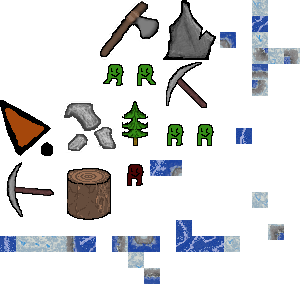
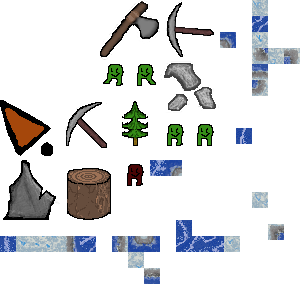
YEAH WOOH

Changed region(s): [[0.54, 0.0, 0.72, 0.3944], [0.0, 0.5634, 0.18, 0.7887], [0.21, 0.338, 0.39, 0.5352]]

diff --git a/src/player.ts b/src/player.ts
@@ -23,11 +23,13 @@ function isItemType(obj: any): obj is ItemType {
 }
 
 class Player extends PIXI.AnimatedSprite {
+    msgTexts: PIXI.Text[];
     health: number = 100;
     name: string = "";
     visualChunkLocation: number[] = [0, 0];
     speed: number = 1;
     pixelWidth: number = 0;
+    msgTextStyle: PIXI.TextStyle;
     pixelHeight: number = 0;
     isMoving: boolean = false;
     hitboxSize: number = 12;
@@ -36,6 +38,9 @@ class Player extends PIXI.AnimatedSprite {
     hand: InventorySlot;
     handContainer: PIXI.Container;
     craftingMenu: CraftingMenu;
+    spawnX: number = 0;
+    spawnY: number = 0;
+    msgContainer: PIXI.Container;
 
     constructor(sprites: string[], width: number, height: number, itemsData: Object) {
         let textures: PIXI.Texture[] = []
@@ -44,6 +49,22 @@ class Player extends PIXI.AnimatedSprite {
         })
         super(textures);
         this.animationSpeed = 0.15;
+        this.msgContainer = new PIXI.Container();
+        //@ts-ignore
+        this.msgTextStyle = {
+            fill: 0xFFFFFF,
+            fontFamily: "courier new",
+            fontSize: 40,
+        }
+        this.msgTexts = [];
+        this.showMessage("Welcome Back!")
+        this.showMessage("Welcome Back!")
+        this.showMessage("Welcome Back!")
+        this.showMessage("Welcome Back!")
+        this.showMessage("Welcome Back!")
+        this.showMessage("Welcome Back!")
+        this.showMessage("Welcome Back!")
+
 
         let items: ItemType[] = [];
         // @ts-ignore
@@ -58,9 +79,6 @@ class Player extends PIXI.AnimatedSprite {
         this.hand = new InventorySlot();
         this.handContainer = new PIXI.Container();
         this.inventory = new Inventory(3, 8, items, this.hand);
-        this.inventory.setSlot(0, 0, items[0], 50);
-        this.inventory.setSlot(0, 1, items[1], 1);
-        this.inventory.setSlot(0, 2, items[2], 50);
         this.inventory.onHandPickup = () => this.renderHand(this);
         this.inventory.onInventoryUpdate = () => {
             this.craftingMenu.inventoryCountMap = this.inventory.getItemCount();
@@ -78,13 +96,61 @@ class Player extends PIXI.AnimatedSprite {
             }
         })
         this.hb = new HitBox(width/3, height/8, width, height)
+        this.inventory.addItems(items[0], 50);
+        this.inventory.addItems(items[0], 50);
+        this.inventory.addItems(items[0], 50);
+        this.inventory.addItems(items[0], 50);
+        this.inventory.addItems(items[0], 50);
+        this.inventory.addItems(items[0], 50);
+        this.inventory.addItems(items[0], 50);
+        this.inventory.addItems(items[0], 50);
+        this.inventory.addItems(items[0], 50);
+        this.inventory.addItems(items[0], 50);
+        this.inventory.addItems(items[0], 50);
+        this.inventory.addItems(items[0], 50);
+        this.inventory.addItems(items[0], 50);
+        this.inventory.addItems(items[0], 50);
+        this.inventory.addItems(items[0], 50);
+        this.inventory.addItems(items[0], 50);
+        this.inventory.addItems(items[0], 50);
+        this.inventory.addItems(items[0], 50);
+        this.inventory.addItems(items[0], 50);
+        this.inventory.addItems(items[0], 50);
+        this.inventory.addItems(items[0], 50);
+        this.inventory.addItems(items[0], 50);
+        this.inventory.addItems(items[0], 50);
+        this.inventory.addItems(items[0], 49);
     }
+
 
     handleCraftRequest(req: CraftRequest, p: Player) {
         for (let key of req.ingredients.keys()) {
             p.inventory.removeItems(key, req.ingredients.get(key)!);
         }
         p.inventory.addItems(req.result, 1);
+    }
+
+    showMessage(text: string) {
+        const t = new PIXI.Text({
+            text: text,
+            style: this.msgTextStyle
+        })
+        t.y = window.innerHeight/2-this.height-t.height;
+        t.x = ((this.width-t.width)/2 + window.innerWidth/2) - this.width/2;
+        this.msgContainer.addChild(t)
+        this.msgTexts.push(t);
+    }
+
+    updateMessagePosition() {
+        for (let i=0; i<this.msgTexts.length; i++) {
+            const t = this.msgTexts[i];
+            t.y -= 1
+            t.alpha -= 0.01
+            if (t.y <= -150) {
+                this.msgTexts.splice(i, 1)
+                t.destroy()
+            }
+        }
     }
 
     renderHand(p: Player) {
@@ -221,6 +287,30 @@ class Inventory extends PIXI.Container {
         this.items = items;
         this.grid.renderAll();
         this.playerHand = playerHand;
+    }
+
+    canFitItems(item: ItemType, count: number): boolean {
+        let addedSoFar = 0;
+        for (let row = 0; row < this.grid.rows; row++) {
+            for (let col = 0; col < this.grid.cols; col++) {
+                const slot = this.grid.slots[row][col];
+                if (slot.item?.name == item.name) {
+                    if (slot.count !== slot.item!.stack) {
+                        if (slot.count + (count-addedSoFar)  <= slot.item!.stack) {
+                            return true
+                        }
+                        addedSoFar += count - slot.count;
+                    }
+                }
+                if (slot.count === 0) {
+                    if (count-addedSoFar  <= item.stack) {
+                        return true
+                    }
+                    addedSoFar += count - slot.count;
+                }
+            }
+        }
+        return false
     }
 
     addItems(item: ItemType, count: number) {

diff --git a/src/resources.ts b/src/resources.ts
@@ -24,9 +24,11 @@ class ResourcesManager extends PIXI.Container {
     clicking: boolean;
     timeOfLastMinecraft: number;
     miningSpeedMillis: number;
+    warningMessageHandler: Function;
 
-    constructor(resourceLayers: ResourceLayer[], opts: ResourceOption[], itemsData: Object, itemDestination: Inventory, app: PIXI.Application, miningSpeedMillis: number) {
+    constructor(resourceLayers: ResourceLayer[], opts: ResourceOption[], itemsData: Object, itemDestination: Inventory, app: PIXI.Application, miningSpeedMillis: number, warningMessageHandler: Function) {
         super();
+        this.warningMessageHandler = warningMessageHandler
         this.miningSpeedMillis = miningSpeedMillis;
         this.maps = [];
         this.timeOfLastMinecraft = Date.now();
@@ -78,6 +80,7 @@ class ResourcesManager extends PIXI.Container {
                 resource.miningSoundVariants,
                 resource.destroySound,
                 resource.destroySoundVariants,
+                this.warningMessageHandler,
             );
             this.maps.push(map);
             this.addChild(this.maps[i]);
@@ -128,9 +131,25 @@ class ResourceMap extends PIXI.Container {
     miningSound: string;
     destroySound: string;
     destroySoundVariants: number;
+    warningMessageHandler: Function
 
-    constructor(locations: ResourceMapLocation[], resourceName: string, resourceItem: ItemType, resourceDestination: Inventory, resourceSprite: string, app: PIXI.Application, mouseoverSprite: string, miningHitSprite: string, defaultCursorSprite: string, miningSound: string, miningSoundVariants: number, destroySound: string, destroySoundVariants: number) {
+    constructor(locations: ResourceMapLocation[],
+                resourceName: string,
+                resourceItem: ItemType,
+                resourceDestination: Inventory,
+                resourceSprite: string,
+                app: PIXI.Application,
+                mouseoverSprite: string,
+                miningHitSprite: string,
+                defaultCursorSprite: string,
+                miningSound: string,
+                miningSoundVariants: number,
+                destroySound: string,
+                destroySoundVariants: number,
+                warningMessageHandler: Function
+               ) {
         super();
+        this.warningMessageHandler = warningMessageHandler;
         this.miningSound = miningSound;
         this.destroySound = destroySound;
         this.destroySoundVariants = destroySoundVariants;
@@ -218,13 +237,18 @@ class ResourceMap extends PIXI.Container {
 
         this.locations[this.currentMiningIndex].hits -= 1;
         if (this.locations[this.currentMiningIndex].hits === 0) {
-            this.resourceDestination.addItems(this.resourceItem, this.locations[this.currentMiningIndex].resourceCount);
-            document.getElementsByTagName("body")[0].style.cursor = "url('assets/" + this.defaultCursorSprite + "'), auto";
-            this.mapMask[this.currentMiningIndex].destroy();
-            this.sprites[this.currentMiningIndex].destroy();
-            this.currentMiningIndex = null;
-            this.playDestroySound();
-            this.playMiningSound();
+            if (this.resourceDestination.canFitItems(this.resourceItem, this.locations[this.currentMiningIndex].resourceCount)) {
+                this.resourceDestination.addItems(this.resourceItem, this.locations[this.currentMiningIndex].resourceCount);
+                document.getElementsByTagName("body")[0].style.cursor = "url('assets/" + this.defaultCursorSprite + "'), auto";
+                this.mapMask[this.currentMiningIndex].destroy();
+                this.sprites[this.currentMiningIndex].destroy();
+                this.currentMiningIndex = null;
+                this.playDestroySound();
+                this.playMiningSound();
+            } else {
+                this.warningMessageHandler("Inventory Full!")
+                this.locations[this.currentMiningIndex].hits = 1
+            }
         } else {
             this.playMiningSound();
         }

diff --git a/src/main.ts b/src/main.ts
@@ -28,9 +28,9 @@ kbd.addClickHandler("n", () => {
 const app = new PIXI.Application();
 await app.init({width: tile_unscaled_size*map_size, height: tile_unscaled_size*map_size, antialias: false, roundPixels: true, backgroundColor: "blue"});
 
-document.getElementsByTagName("body")[0].style.cursor = "url('assets/cursor.png'), auto";
 document.getElementsByTagName("body")[0].style.cursor = "url('assets/pickaxe_2.png'), auto";
 document.getElementsByTagName("body")[0].style.cursor = "url('assets/pickaxe_1.png'), auto";
+document.getElementsByTagName("body")[0].style.cursor = "url('assets/cursor.png'), auto";
 
 const stats = new StatsHandler(app.renderer);
 kbd.addClickHandler("p", () => {stats.toggle()});
@@ -74,14 +74,16 @@ tilemap.position.set(0, 0);
 world.addChild(tilemap);
 
 const player = new Player(["green_1.png", "green_2.png", "green_3.png"], 12, 16, PIXI.Assets.get("items"));
-player.x = 400;
-player.y = 1300;
 player.speed = 3;
 const playerSize = 20
 const playerAspectRatio = player.pixelWidth/player.pixelHeight;
 player.width = playerAspectRatio*playerSize;
 player.height = playerSize;
 world.addChild(player);
+player.spawnX = 400;
+player.spawnY = 1300;
+player.x = 400;
+player.y = 1300;
 handleVisualChunks();
 
 player.inventory.visible = false;
@@ -93,6 +95,7 @@ kbd.addClickHandler("e", () => {
 })
 player.craftingMenu.visible = false;
 app.stage.addChild(player.craftingMenu);
+app.stage.addChild(player.msgContainer)
 
 const itemsJSON = PIXI.Assets.get("items");
 const resourceOptions: ResourceOption[] = [];
@@ -100,10 +103,10 @@ resourceOptions.push({
   width: 30,
   height: 30,
   resourceCount: 1,
-  resourceSprite: "metalrock.png",
-  resourceName: "metalrock",
+  resourceSprite: "stonerock.png",
+  resourceName: "stonerock",
   hits: 10,
-  resourceItemName: "metal",
+  resourceItemName: "stone",
   miningSound: "stonehit",
   miningSoundVariants: 3,
   destroySound: "stonedestroy",
@@ -122,7 +125,12 @@ resourceOptions.push({
   destroySound: "wooddestroy",
   destroySoundVariants: 1,
 });
-let resourceManager = new ResourcesManager(tilemap.resourceLayers, resourceOptions, itemsJSON, player.inventory, app, 1000);
+let resourceManager = new ResourcesManager(tilemap.resourceLayers,
+  resourceOptions,
+  itemsJSON,
+  player.inventory,
+  app, 100, (msg: string) => player.showMessage(msg)
+);
 
 world.addChild(resourceManager)
 app.ticker.add(() => resourceManager.miningTick())
@@ -144,13 +152,14 @@ app.ticker.add(() => kbd.pressedKeys.forEach(handleKey));
 app.ticker.add(() => {if (!kbd.isWasdPressed()) {player.gotoAndStop(0); player.isMoving = false}});
 app.ticker.add(() => {if (player.isMoving) {handleVisualChunks()}});
 app.ticker.add(renderHitboxes);
+app.ticker.add(() => player.updateMessagePosition())
 app.ticker.add(moveCamera);
 app.ticker.add(renderHealthBar);
 
 function handleVisualChunks() {
   const playerChunkRow = Math.floor((player.y/tile_unscaled_size)/tilemap.baseLayer.chunkSize)
   const playerChunkCol = Math.floor((player.x/tile_unscaled_size)/tilemap.baseLayer.chunkSize)
-  if (player.visualChunkLocation[0] != playerChunkRow && player.visualChunkLocation[1] != playerChunkCol) {
+  if (player.visualChunkLocation[0] != playerChunkRow && player.visualChunkLocation[1] != playerChunkCol && player.spawnY != player.y && player.spawnX != player.x) {
     return
   }
   player.visualChunkLocation = [playerChunkRow, playerChunkCol];
